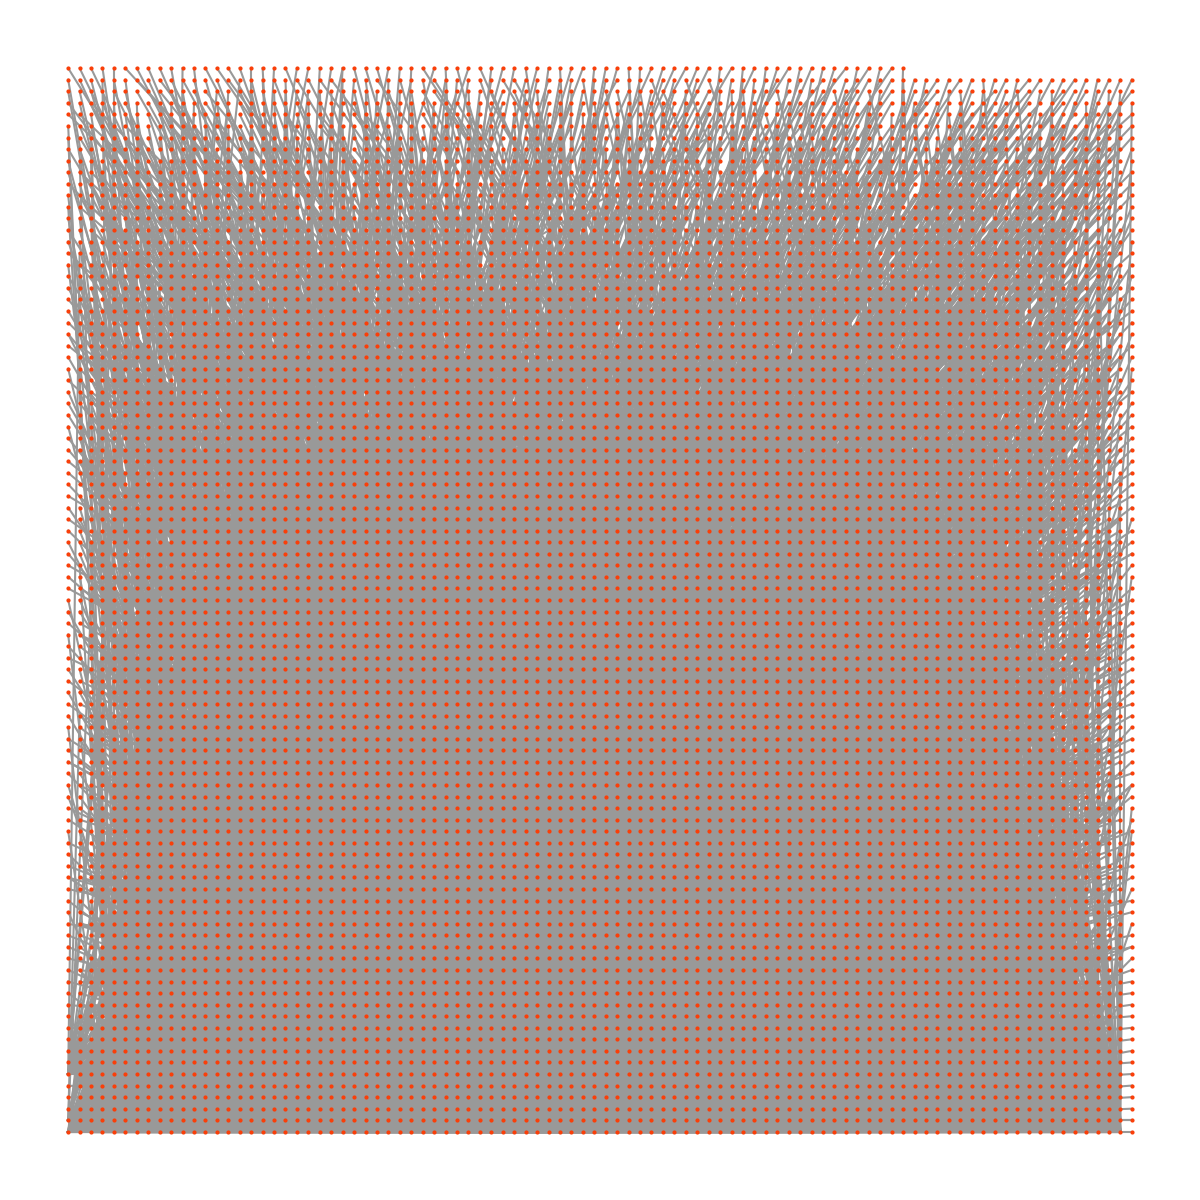
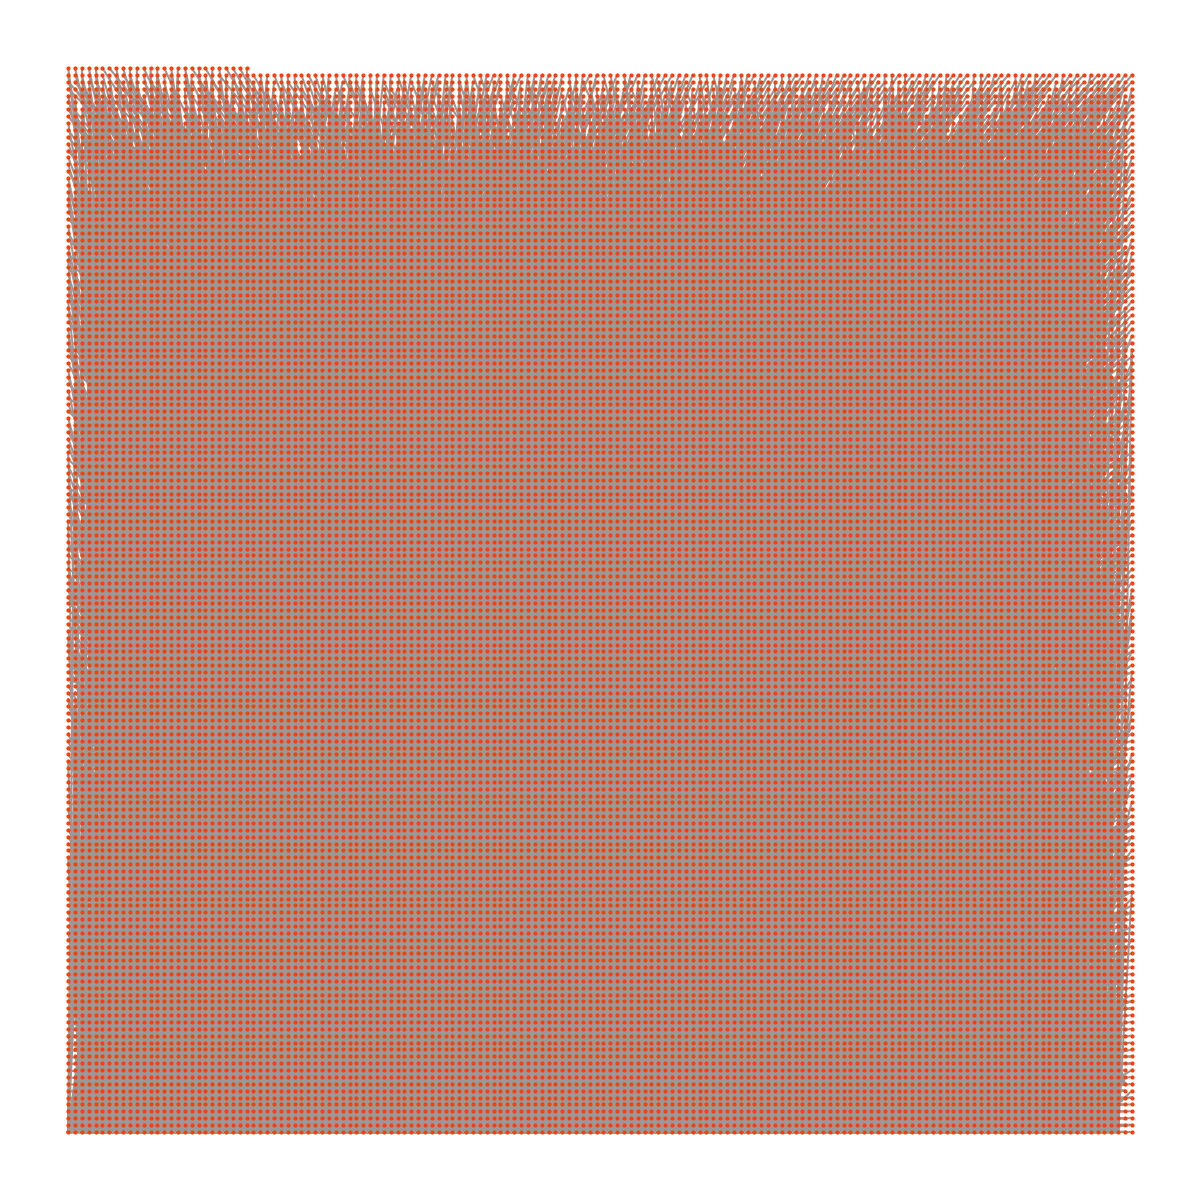
first results

diff --git a/Network Analysis/03. Visualizing large networks/utils.py b/Network Analysis/03. Visualizing large networks/utils.py
@@ -62,7 +62,7 @@ def load() -> nx.Graph:
     g = nx.Graph()
     for i, row in df.iterrows():
         g.add_edge(row['Person A'], row['Person B'])
-        if i == 10000: break
+        # if i == 10000: break
     print('INFO', len(g.nodes), 'nodes and', len(g.edges), 'edges')
     return g
 
